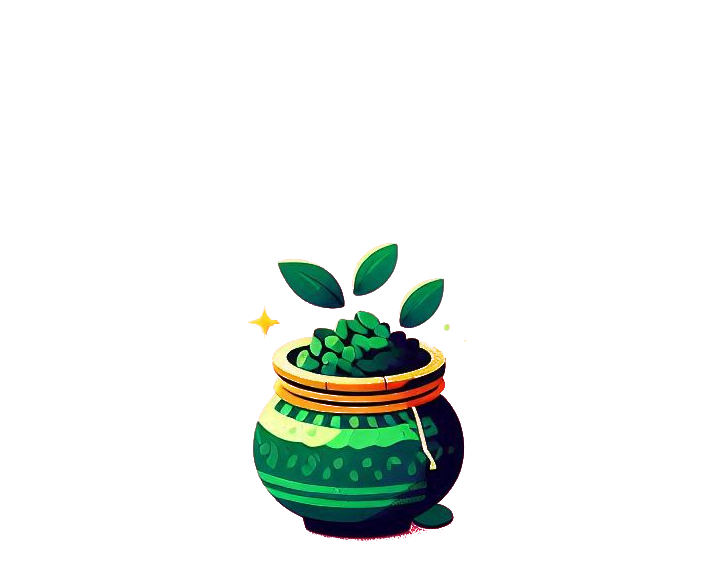
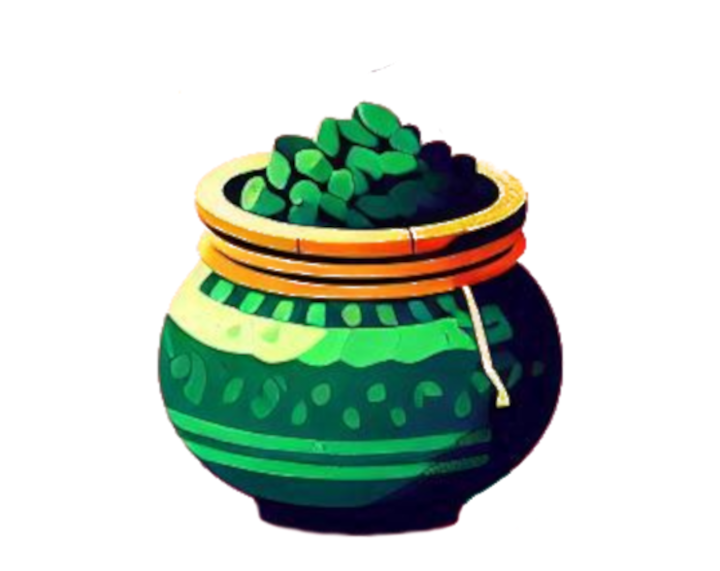
Adjust treasure images, organize Wave.jsx component better, synchronize item arrival at boat with treasure in boat

diff --git a/src/components/Wave.jsx b/src/components/Wave.jsx
@@ -1,5 +1,92 @@
 import { useEffect, useRef, useState } from "react";
 
+function animateBoat(x1Ref, cycleLength) {
+  const boat = document.getElementById("boat-img");
+
+  if (boat) {
+    //adjust as needed by experimentation
+    const boatYMin = -40;
+    const boatYMax = 15;
+    const boatRotMin = -7;
+    const boatRotMax = 5;
+
+    //calculations
+    const progress = (((-x1Ref.current % cycleLength) + cycleLength) % cycleLength) / cycleLength;
+    const angle = progress * 2 * Math.PI;
+    const boatY = boatYMax + ((boatYMin - boatYMax) / 2) * (1 - Math.cos(angle));
+    const boatRot = boatRotMax + ((boatRotMin - boatRotMax) / 2) * (1 - Math.cos(angle));
+
+    boat.style.transform = `translateY(${boatY}px) rotateZ(${boatRot}deg)`;
+  }
+}
+
+function animateFloatingItems(setFloatingItems, elementCacheRef, floatingItemsRef, positionsRef, offsetsRef, cycleLength, imgWidth, speed ) {
+  const items = floatingItemsRef.current || [];
+
+  items.forEach((item) => {
+    if (item.inBoat) return;
+
+    const id = item.id;
+    let pos = positionsRef.current.get(id);
+    if (pos === undefined) {
+      pos = imgWidth + 50;
+      positionsRef.current.set(id, pos);
+    }
+
+    pos -= speed / 2; // half-speed, looks better, like waves are pushing item
+    positionsRef.current.set(id, pos);
+
+    // cache the DOM element for item if not already found
+    let elem = elementCacheRef.current.get(id);
+    if (!elem) {
+      elem = document.getElementById(`FI-${id}`);
+      if (elem) elementCacheRef.current.set(id, elem);
+    }
+
+    // arrives at boat threshold, mark inBoat
+    const arrivalX = 350; //represents middle of boat
+    if (pos <= arrivalX) {
+      setFloatingItems((prev) => {
+        const next = prev.map((it) =>
+          it.id === id ? { ...it, inBoat: true } : it
+        );
+        floatingItemsRef.current = next;
+        return next;
+      });
+
+      positionsRef.current.delete(id);
+      if (elem) {
+        elem.style.display = "none";
+      }
+    } else {
+      if (elem) {
+        const progress =
+          ((((imgWidth - pos - offsetsRef.current.get(id)) %
+            cycleLength) +
+            cycleLength) %
+            cycleLength) /
+          cycleLength;
+        const offset = (165 / 180) * Math.PI;
+        const angle = progress * 2 * Math.PI - offset;
+
+        const itemYMin = -35;
+        const itemYMax = 60;
+        const itemRotMin = -20;
+        const itemRotMax = 20;
+
+        const itemY =
+          itemYMax + ((itemYMin - itemYMax) / 2) * (1 - Math.cos(angle));
+        const itemRot =
+          itemRotMax +
+          ((itemRotMin - itemRotMax) / 2) *
+            (1 - Math.cos(angle + Math.PI / 2));
+
+        elem.style.transform = `translateX(${pos}px) translateY(${itemY}px) rotateZ(${itemRot}deg)`;
+      }
+    }
+  });
+}
+
 export default function Wave({
   image,
   speed,
@@ -75,6 +162,9 @@ export default function Wave({
     x1Ref.current = 0;
     x2Ref.current = imgWidth;
 
+    //cycleLength depends on image, if you change from Wave1.png (which has 2 waves/image), this may change
+    const cycleLength = imgWidth / 2;
+
     // cancel any existing loop
     if (rafRef.current) {
       cancelAnimationFrame(rafRef.current);
@@ -98,95 +188,14 @@ export default function Wave({
       if (img2Ref.current)
         img2Ref.current.style.transform = `translateX(${x2Ref.current}px)`;
 
-      // the boat sync
+      // the boat animation
       if (syncBoat) {
-        const boat = document.getElementById("boat-img");
-        if (boat) {
-          const boatYMin = -40;
-          const boatYMax = 15;
-          const boatRotMin = -7;
-          const boatRotMax = 5;
-          const cycleLength = imgWidth / 2;
-          let progress =
-            (((-x1Ref.current % cycleLength) + cycleLength) % cycleLength) /
-            cycleLength;
-          const angle = progress * 2 * Math.PI;
-          const boatY =
-            boatYMax + ((boatYMin - boatYMax) / 2) * (1 - Math.cos(angle));
-          const boatRot =
-            boatRotMax +
-            ((boatRotMin - boatRotMax) / 2) * (1 - Math.cos(angle));
-          boat.style.transform = `translateY(${boatY}px) rotateZ(${boatRot}deg)`;
-        }
+        animateBoat(x1Ref, cycleLength);
       }
 
-      // floating items
+      // floating item animation
       if (setFloatingItems) {
-        const items = floatingItemsRef.current || [];
-        const cycleLength = imgWidth / 2;
-
-        items.forEach((item) => {
-          if (item.inBoat) return;
-
-          const id = item.id;
-          let pos = positionsRef.current.get(id);
-          if (pos === undefined) {
-            pos = imgWidth + 50;
-            positionsRef.current.set(id, pos);
-          }
-
-          pos -= speed / 2; // item travels at half speed of wave
-          positionsRef.current.set(id, pos);
-
-          // cache the DOM element for item if not already found
-          let elem = elementCacheRef.current.get(id);
-          if (!elem) {
-            elem = document.getElementById(`FI-${id}`);
-            if (elem) elementCacheRef.current.set(id, elem);
-          }
-
-          // arrives at boat threshold, mark inBoat
-          const arrivalX = 350;
-          if (pos <= arrivalX) {
-            setFloatingItems((prev) => {
-              const next = prev.map((it) =>
-                it.id === id ? { ...it, inBoat: true } : it
-              );
-              floatingItemsRef.current = next;
-              return next;
-            });
-
-            positionsRef.current.delete(id);
-            if (elem) {
-              elem.style.display = "none";
-            }
-          } else {
-            if (elem) {
-              const progress =
-                ((((imgWidth - pos - offsetsRef.current.get(id)) %
-                  cycleLength) +
-                  cycleLength) %
-                  cycleLength) /
-                cycleLength;
-              const offset = (165 / 180) * Math.PI;
-              const angle = progress * 2 * Math.PI - offset;
-
-              const itemYMin = -35;
-              const itemYMax = 60;
-              const itemRotMin = -20;
-              const itemRotMax = 20;
-
-              const itemY =
-                itemYMax + ((itemYMin - itemYMax) / 2) * (1 - Math.cos(angle));
-              const itemRot =
-                itemRotMax +
-                ((itemRotMin - itemRotMax) / 2) *
-                  (1 - Math.cos(angle + Math.PI / 2));
-
-              elem.style.transform = `translateX(${pos}px) translateY(${itemY}px) rotateZ(${itemRot}deg)`;
-            }
-          }
-        });
+        animateFloatingItems(setFloatingItems, elementCacheRef, floatingItemsRef, positionsRef, offsetsRef, cycleLength, imgWidth, speed);
       }
 
       rafRef.current = requestAnimationFrame(animate);

diff --git a/src/components/ShoppingItem.jsx b/src/components/ShoppingItem.jsx
@@ -1,4 +1,8 @@
 import largeTreasure from "../assets/Teasure-L.png";
+import mediumTreasure1 from "../assets/Teasure-M-1.png";
+import mediumTreasure2 from "../assets/Teasure-M-2.png";
+import smallTreasure1 from "../assets/Teasure-S-1.png";
+import smallTreasure2 from "../assets/Teasure-S-2.png";
 
 function AddToCart(
   shoppingItem,
@@ -9,17 +13,27 @@ function AddToCart(
 ) {
   const newCart = [];
 
-  //add to floatingItems
+  //floating item stuff
+  let floatingImg = largeTreasure;
+  if (shoppingItem.Count == 1) {
+    if (Math.random() > 0.5) floatingImg = smallTreasure1;
+    else floatingImg = smallTreasure2;
+  } 
+  else if (shoppingItem.Count == 2) {
+    if (Math.random() > 0.5) floatingImg = mediumTreasure1;
+    else floatingImg = mediumTreasure2;
+  } 
   const newFloatingItem = {
     id: floatingItems.length,
-    img: largeTreasure,
+    cartCount: shoppingItem.Count,
+    img: floatingImg,
     waveOffset: null,
     inBoat: false,
   };
   let newFloatingItems = [...floatingItems];
   newFloatingItems.push(newFloatingItem);
-  console.log(newFloatingItems);
   setFloatingItems(newFloatingItems);
+  //end floating item stuff
 
   //we want the same item to only have a single object
   let repeatItem = false;

diff --git a/src/components/BottomBar.jsx b/src/components/BottomBar.jsx
@@ -5,15 +5,15 @@ import BoatWDogMed from "../assets/BoatWDogTM.png";
 import BoatWDogLarge from "../assets/BoatWDogTL.png";
 import BoatWDogVLarge from "../assets/BoatWDogTLL.png";
 import BoatWDogVVLarge from "../assets/BoatWDogTLLL.png";
-import { cartCount } from "./UtilityFunctions";
+import { boatCount } from "./UtilityFunctions";
 import Wave1 from "../assets/Wave1.png";
 import Wave2 from "../assets/Wave2.png";
 import Wave3 from "../assets/Wave3.png";
 import Wave4 from "../assets/Wave4.png";
 import Wave from "./Wave";
 
-export default function BottomBar({ cart, floatingItems, setFloatingItems }) {
-  const currentCount = cartCount(cart);
+export default function BottomBar({ floatingItems, setFloatingItems }) {
+  const currentCount = boatCount(floatingItems);
 
   let boatImg = BoatWDogVVLarge;
   if (currentCount == 0) boatImg = BoatWDog;
@@ -35,6 +35,7 @@ export default function BottomBar({ cart, floatingItems, setFloatingItems }) {
               <img
                 src={floatingItem.img}
                 id={`FI-${floatingItem.id}`}
+                key={floatingItem.id}
                 className="floating-item"
               />
             );

diff --git a/src/components/UtilityFunctions.js b/src/components/UtilityFunctions.js
@@ -11,3 +11,14 @@ export function cartCount(cart) {
 
   return totalCount;
 }
+
+//floatingItems is an array of objects
+// [{id: #, img: somesrc, waveOffset: ##, inBoat: false/true}]
+export function boatCount(floatingItems) {
+  
+  const initialVal = 0;
+  
+  const inBoatCount = floatingItems.filter((item) => item.inBoat == true).reduce((count, item) => count + item.cartCount, initialVal);
+
+  return inBoatCount;
+}

diff --git a/src/App.jsx b/src/App.jsx
@@ -29,7 +29,6 @@ function App() {
         />
       </div>
       <BottomBar
-        cart={cart}
         floatingItems={floatingItems}
         setFloatingItems={setFloatingItems}
       />
